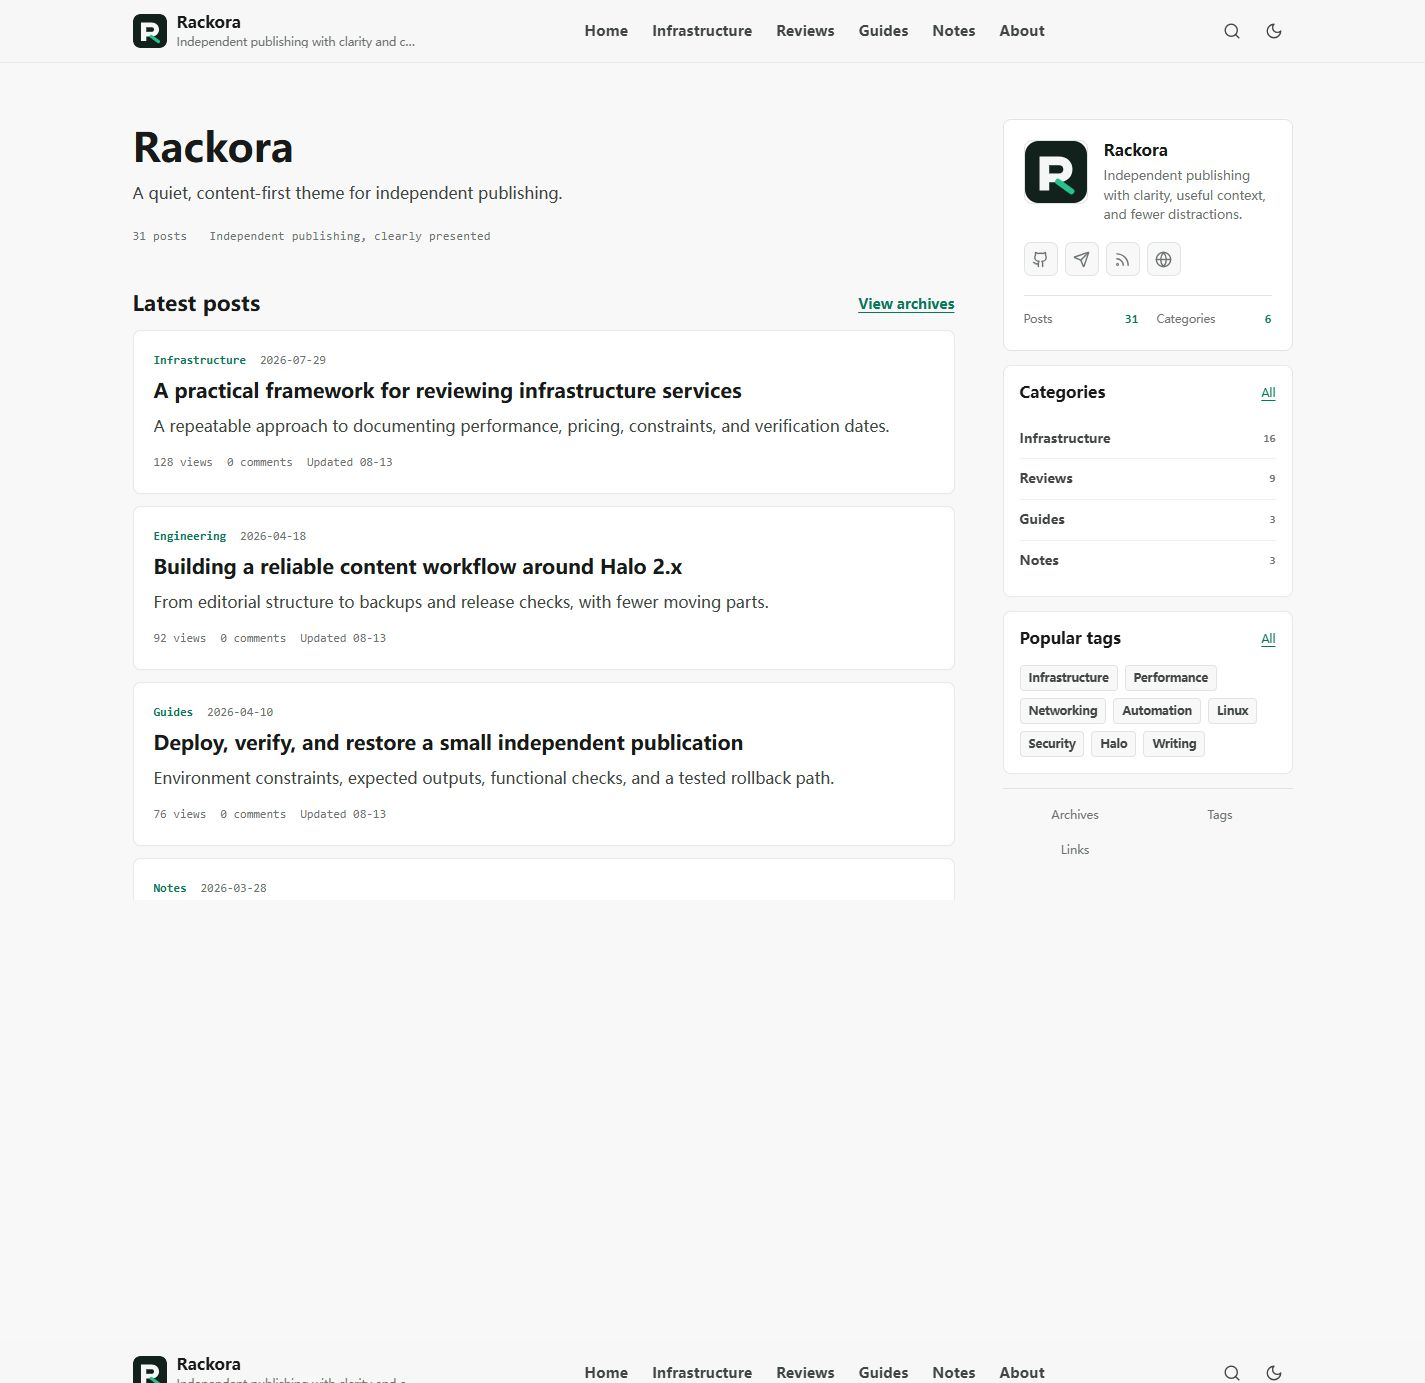
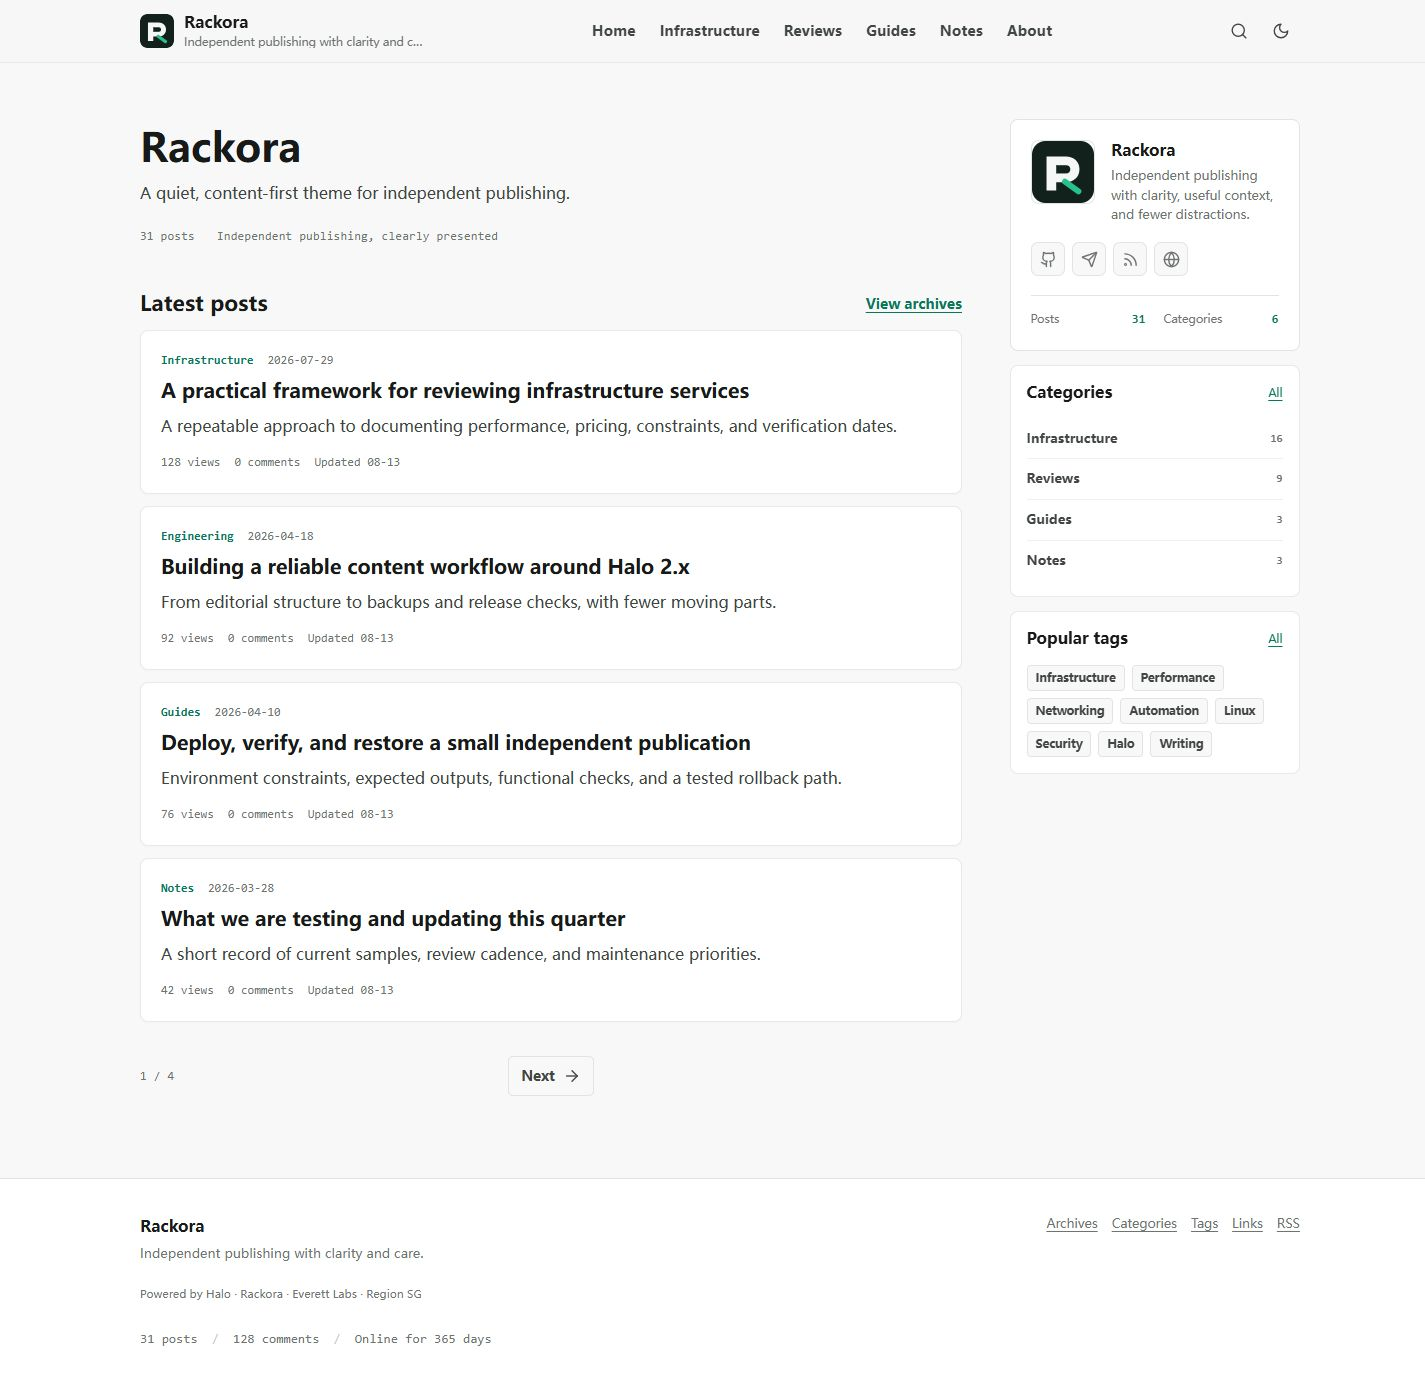
Release Rackora v0.4.1

diff --git a/src/css/main.css b/src/css/main.css
@@ -384,8 +384,7 @@ img {
 }
 
 .profile-panel,
-.sidebar-panel,
-.sidebar-shortcuts {
+.sidebar-panel {
   background: transparent;
 }
 
@@ -569,27 +568,6 @@ img {
   color: var(--rack-accent);
   background: var(--rack-accent-soft);
   border-color: color-mix(in srgb, var(--rack-accent) 28%, var(--rack-line));
-}
-
-.sidebar-shortcuts {
-  display: grid;
-  grid-template-columns: repeat(2, minmax(0, 1fr));
-  padding-top: 8px;
-  border-top: 1px solid var(--rack-line);
-}
-
-.sidebar-shortcuts a {
-  padding: 8px;
-  color: var(--rack-muted);
-  border-radius: 5px;
-  font-size: 0.74rem;
-  text-align: center;
-  text-decoration: none;
-}
-
-.sidebar-shortcuts a:hover {
-  color: var(--rack-accent);
-  background: var(--rack-accent-soft);
 }
 
 .section-heading {
@@ -2040,10 +2018,6 @@ img {
     grid-template-columns: repeat(2, minmax(0, 1fr));
   }
 
-  .sidebar-shortcuts {
-    grid-column: 1 / -1;
-  }
-
   .article-sidebar {
     display: none;
   }
@@ -2100,10 +2074,6 @@ img {
 
   .home-sidebar {
     grid-template-columns: minmax(0, 1fr);
-  }
-
-  .sidebar-shortcuts {
-    grid-column: 1;
   }
 
   .post-cover {

diff --git a/src/index.html b/src/index.html
@@ -191,28 +191,6 @@
       </section>
 
       <include src="ad-slot.html" position="home_sidebar"></include>
-
-      <nav
-        class="sidebar-shortcuts"
-        th:attr="aria-label=${theme.config.basic.ui_language == 'zh-CN' ? '内容索引' : 'Content indexes'}"
-      >
-        <a
-          th:href="@{${site.routes.archivesUri}}"
-          th:text="${theme.config.basic.ui_language == 'zh-CN' ? '文章归档' : 'Archives'}"
-          >Archives</a
-        >
-        <a
-          th:href="@{${site.routes.tagsUri}}"
-          th:text="${theme.config.basic.ui_language == 'zh-CN' ? '标签索引' : 'Tags'}"
-          >Tags</a
-        >
-        <a
-          th:if="${(theme.config.integrations?.show_links ?: true) and pluginFinder.available('PluginLinks')}"
-          th:href="@{/links}"
-          th:text="${theme.config.basic.ui_language == 'zh-CN' ? '友情链接' : 'Links'}"
-          >Links</a
-        >
-      </nav>
     </aside>
   </div>
 </include>

diff --git a/README.md b/README.md
@@ -4,7 +4,7 @@ Rackora is a minimal, content-first Halo 2.x theme for independent publishing, k
 and technical writing. It combines a Fuwari-inspired information hierarchy with the low-image
 article flow, dark mode, and responsive reading experience common to modern publishing themes.
 
-Current release: `v0.4.0`.
+Current release: `v0.4.1`.
 
 ## 设计原则
 
